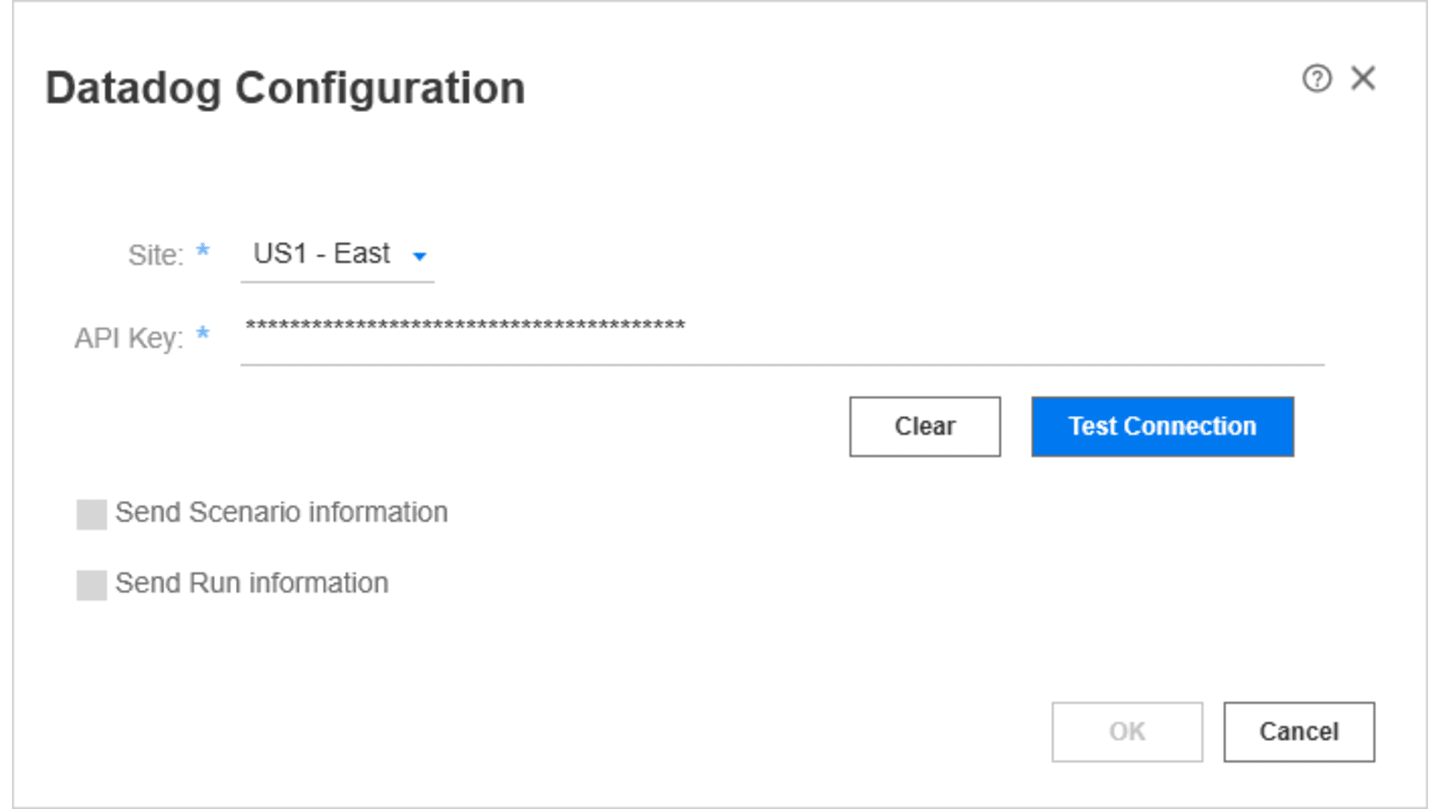
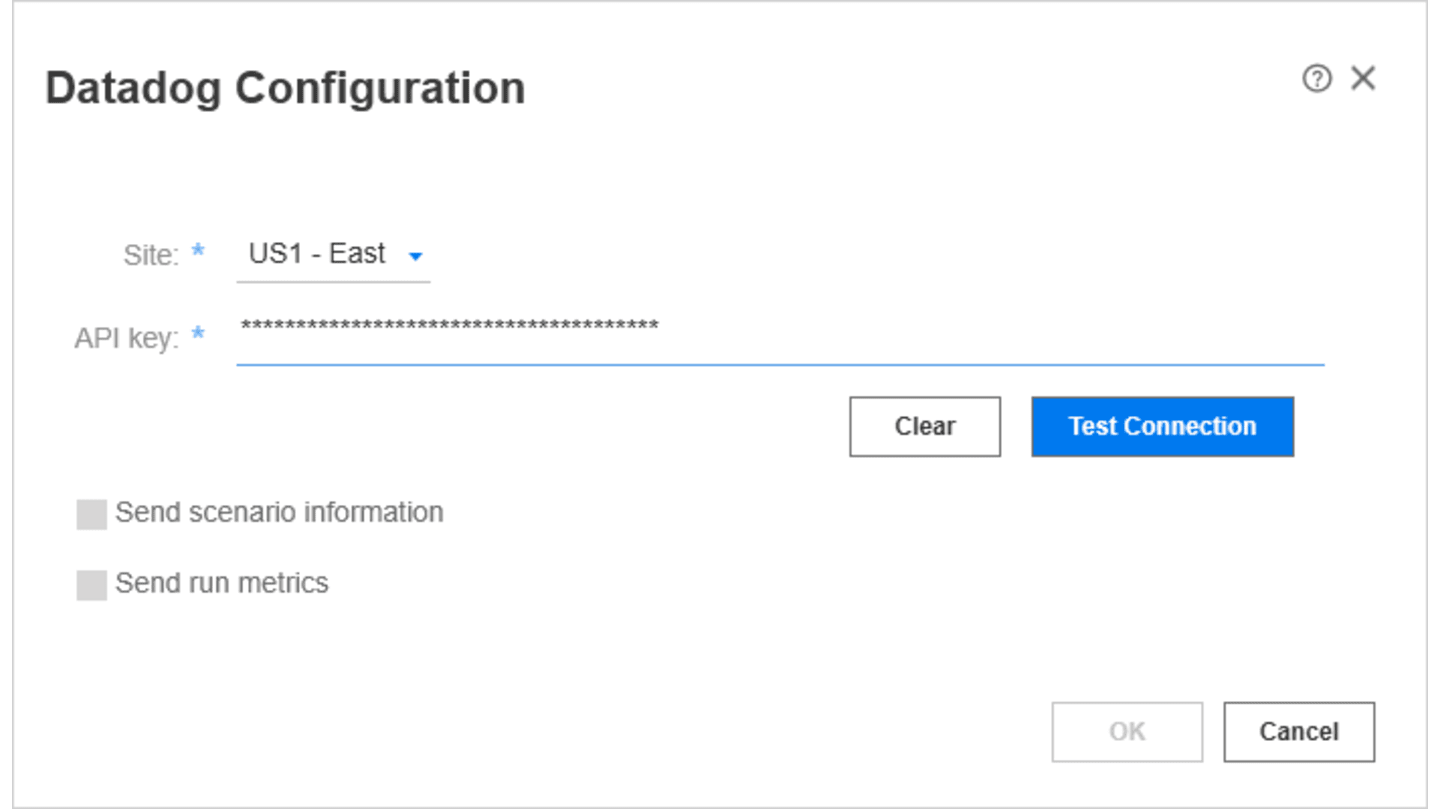
[LoadRunner Professional] Dashboard and pipeline fixes

diff --git a/loadrunner_professional/README.md b/loadrunner_professional/README.md
@@ -11,7 +11,7 @@ With this integration, Controller pushes real-time metrics and data from scenari
 |   |   |
 |---|---|
 |__Send scenario information__| Send information about the scenario run, such as the start and stop time, duration and included scripts in the form of logs.
-|__Send run information__| Send metrics from the scenario run, such as Vuser status and transaction response times. |
+|__Send run metrics__| Send metrics from the scenario run, such as Vuser status and transaction response times. |
 
 ## Setup
 
@@ -20,11 +20,11 @@ Configure LoadRunner Controller to push data to Datadog. You can choose whether 
 1.  Open Controller.
 2.	In the Controller toolbar, select __Tools > Datadog Configuration__.
 3.	In the __Site__ field, select your [Datadog site][6].
-4.	In the __API Key__ field, enter the [API key][7] generated by Datadog.
+4.	In the __API key__ field, enter the [API key][7] generated by Datadog.
 5.	Click __Test Connection__.
-6.	Once the connection is successful, choose whether to send scenario information, run information, or both to Datadog.
+6.	Once the connection is successful, choose whether to send scenario information, run metrics, or both to Datadog.
 7.	If you enable Controller to send scenario information, the included log pipeline with this integration automatically processes your logs and adds relevant tags. For more specifics on the pipeline, navigate to Logs > Pipelines in Datadog.
-8.	In Datadog, the __LoadRunner Stats__ dashboard will automatically be installed with the integration. The dashboard includes widgets that display run information and scenario information (depending on the data that Controller is configured to send).
+8.	In Datadog, the __LoadRunner Professional Dashboard__ will automatically be installed with the integration. The dashboard includes widgets that display run metrics and scenario information (depending on the data that Controller is configured to send).
 
 Once Controller has been configured to push data to Datadog, the data is pushed each time you run a scenario in Controller. To disable Controller from pushing data to Datadog, select __Tools > Datadog Configuration__ and clear the fields in the Datadog Configuration dialog box.
 
